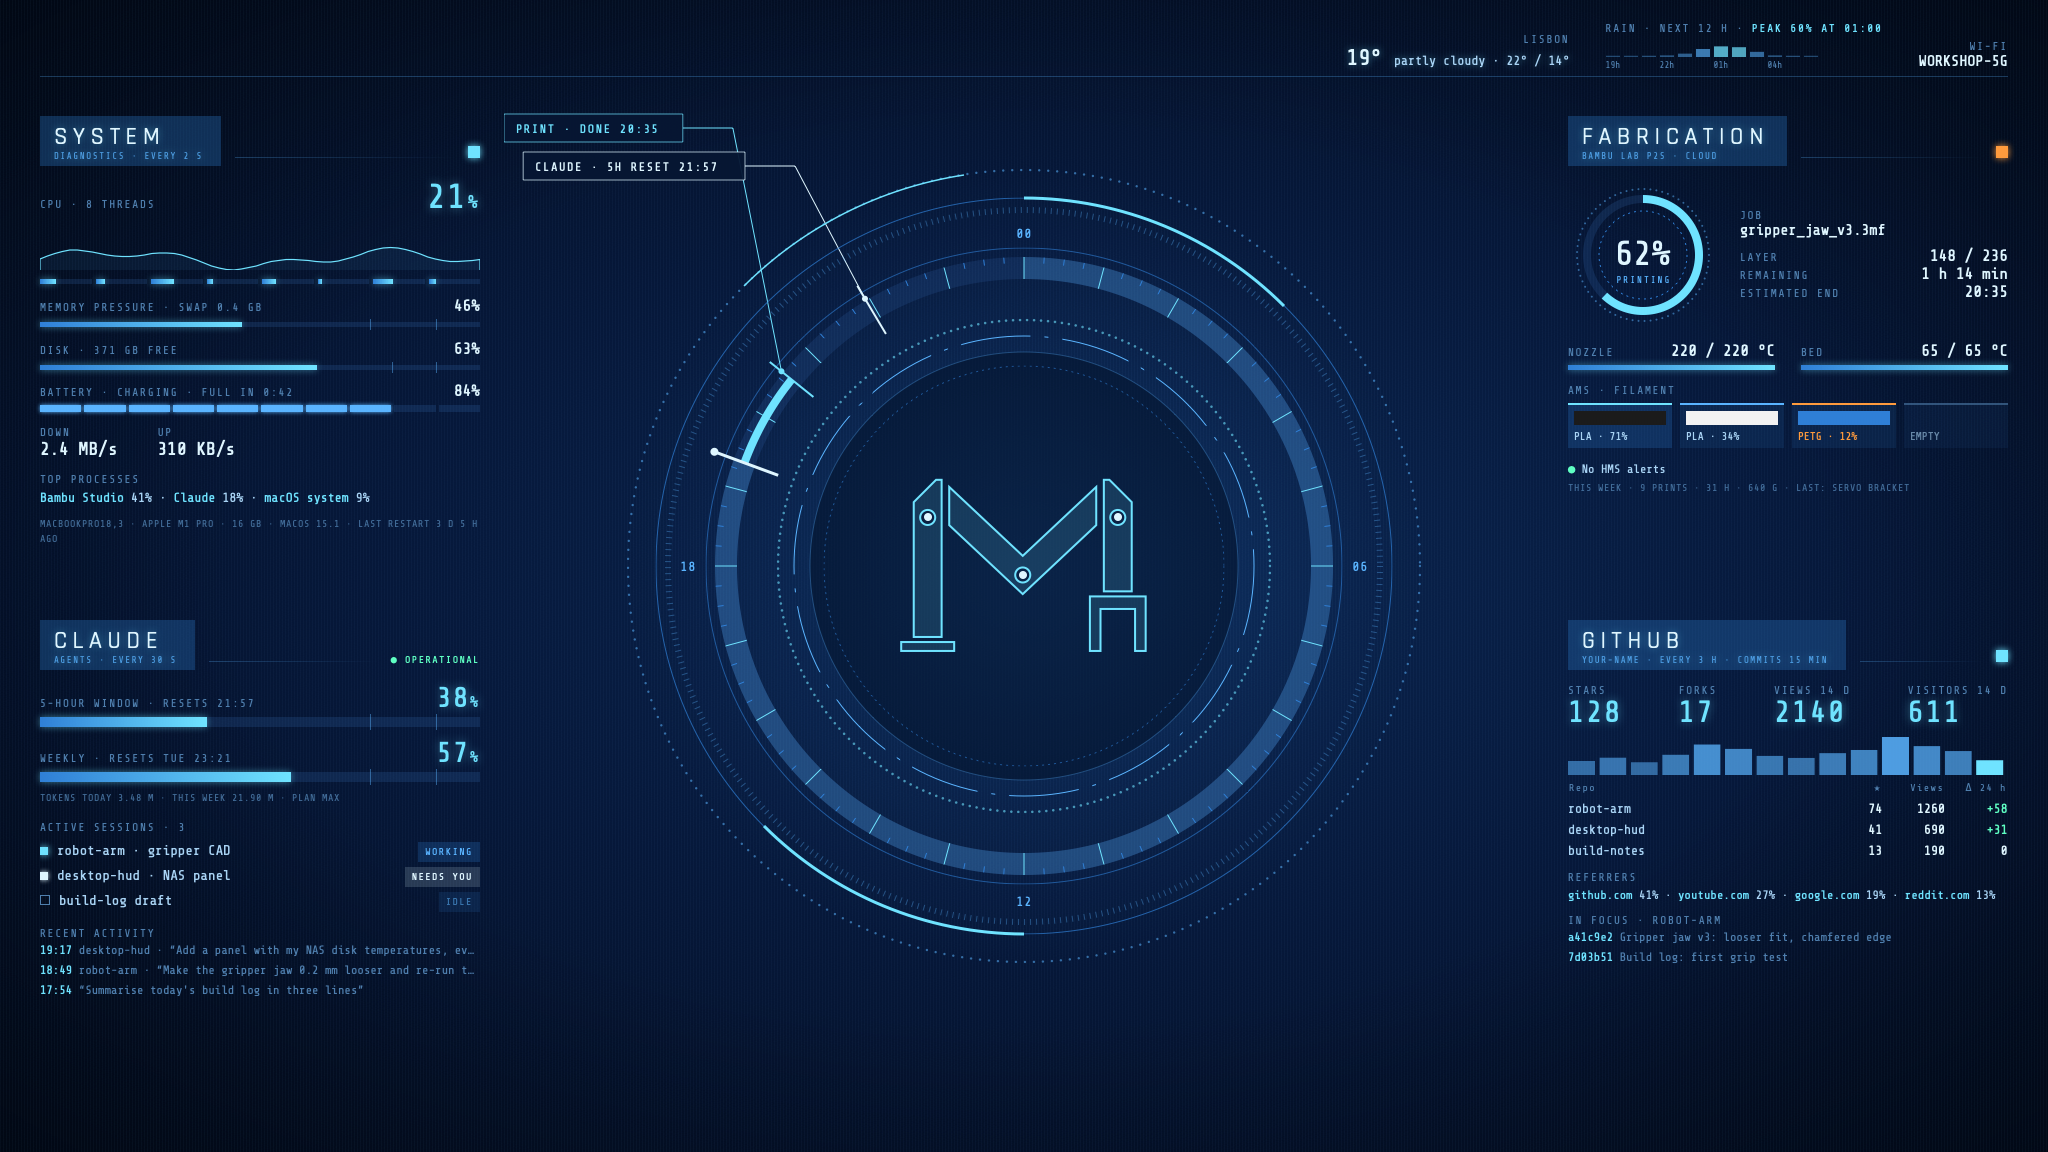
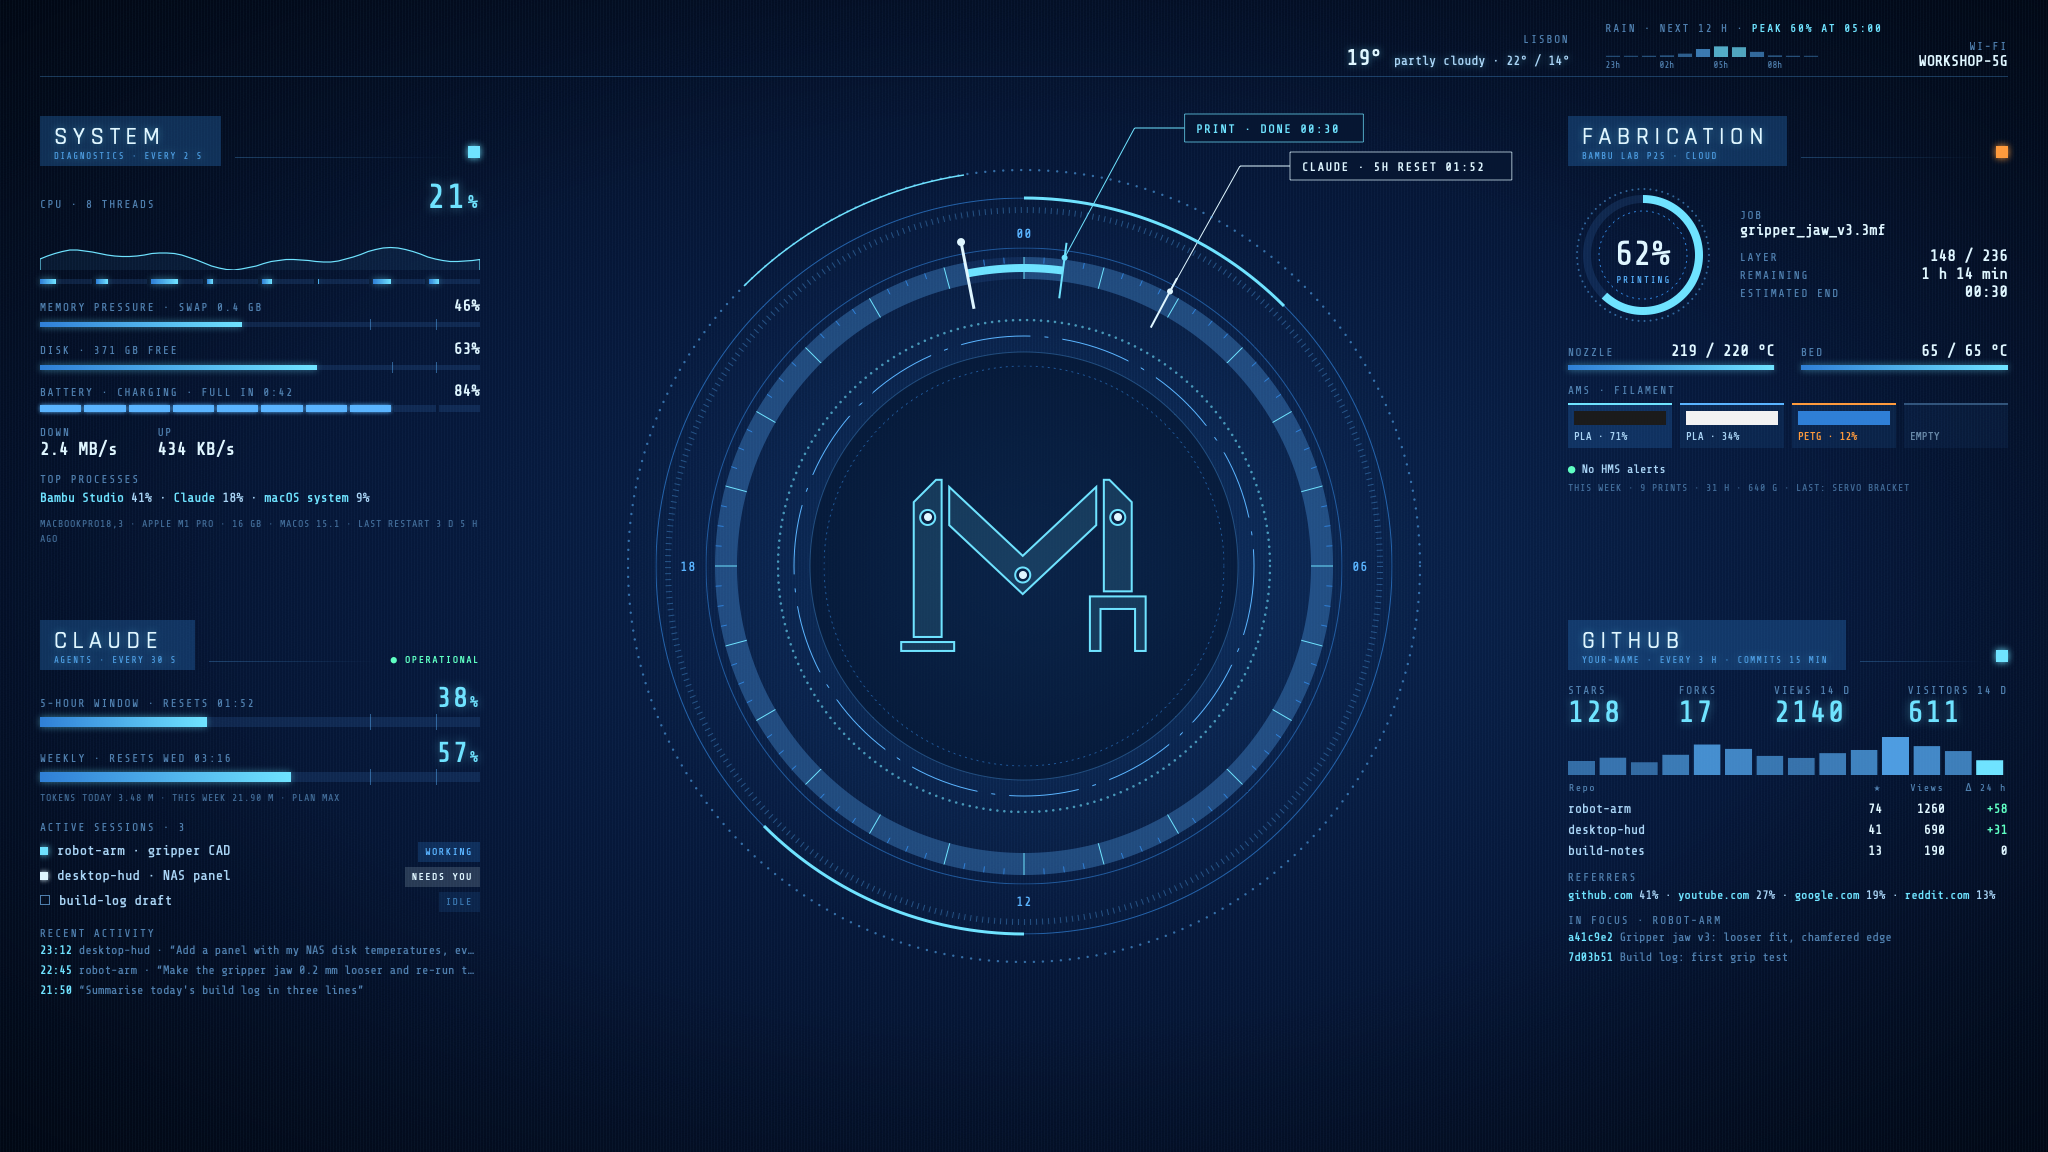
Animated demo, cover image and Mac setup steps
The README opens with a looping GIF of the HUD on made-up data that
changes every refresh. preview/record.py renders the still, the GIF and
the GitHub social preview with WebKit, drawing each frame at an exact
time. The install section now covers login items and location access.

Changed region(s): [[0.3438, 0.2188, 0.5312, 0.4062], [0.25, 0.0938, 0.375, 0.1562], [0.5625, 0.0938, 0.7188, 0.1562]]

diff --git a/preview/social.html b/preview/social.html
@@ -1,0 +1,24 @@
+<!doctype html>
+<!-- GitHub social preview (1280×640). Render: see preview/record.py. Uses docs/hud.png (demo data). -->
+<html><head><meta charset="utf-8"><title>Desktop HUD social preview</title>
+<link rel="stylesheet" href="https://fonts.googleapis.com/css2?family=Rajdhani:wght@300;500&family=Share+Tech+Mono&display=swap">
+<style>
+html,body{margin:0;width:1280px;height:640px;overflow:hidden;background:#030c1d}
+.shot{position:absolute;inset:0;background:url(../docs/hud.png) center 22%/cover}
+.fade{position:absolute;inset:0;background:linear-gradient(180deg,rgba(3,12,29,0) 34%,rgba(3,12,29,.94) 58%,#030c1d 100%)}
+.txt{position:absolute;left:64px;right:64px;bottom:58px;color:#dff6ff}
+.brand{font:16px 'Share Tech Mono',monospace;letter-spacing:.42em;color:#5ab4ff}
+h1{margin:6px 0 10px;font:500 84px/1 Rajdhani,sans-serif;letter-spacing:.2em;text-shadow:0 0 18px rgba(111,227,255,.55)}
+.sub{font:300 27px Rajdhani,sans-serif;letter-spacing:.06em;color:#a9d4f5}
+.sub b{font-weight:500;color:#6fe3ff}
+.rule{width:120px;height:2px;margin-bottom:18px;background:#6fe3ff;box-shadow:0 0 10px #6fe3ff}
+</style></head><body>
+<div class="shot"></div><div class="fade"></div>
+<div class="txt">
+  <div class="rule"></div>
+  <div class="brand">MORANTE ROBOTICS</div>
+  <h1>DESKTOP HUD</h1>
+  <div class="sub">Your macOS wallpaper as a sci-fi HUD · <b>Übersicht</b> · new panels with <b>AI</b></div>
+</div>
+<script>document.fonts.ready.then(() => { window.hudReady = true; });</script>
+</body></html>

diff --git a/preview/record.py b/preview/record.py
@@ -1,0 +1,93 @@
+#!/usr/bin/env python3
+"""Renders a preview page with WebKit (the engine Übersicht uses) to a PNG or a looping GIF.
+
+  python3 preview/build.py --demo         # first: the HUD with made-up data
+  uv run --with pyobjc-framework-WebKit preview/record.py png docs/hud.png
+  uv run --with pyobjc-framework-WebKit preview/record.py gif docs/hud.gif
+  uv run --with pyobjc-framework-WebKit preview/record.py png docs/social-preview.png --page preview/social.html --size 1280x640
+
+GIF options: --seconds 12 (loop length, a multiple of the 2 s refresh), --fps 10, --width 1024.
+The GIF needs ffmpeg. Each frame is drawn at an exact time (see window.hudFrame in build.py),
+so the result doesn't depend on how fast the machine is.
+"""
+import argparse, os, shutil, subprocess, sys, tempfile
+from AppKit import NSApplication, NSBitmapImageRep, NSPNGFileType, NSWindow, NSBackingStoreBuffered
+from Foundation import NSURL, NSMakeRect, NSTimer
+from WebKit import WKWebView, WKWebViewConfiguration, WKSnapshotConfiguration
+
+ROOT = os.path.dirname(os.path.dirname(os.path.abspath(__file__)))
+ap = argparse.ArgumentParser()
+ap.add_argument("mode", choices=["png", "gif"])
+ap.add_argument("out")
+ap.add_argument("--page", default=os.path.join(ROOT, "preview", "index.html"))
+ap.add_argument("--size", default="2048x1152", help="page size in CSS pixels")
+ap.add_argument("--width", type=int, help="output width (default: page width for PNG, 1024 for GIF)")
+ap.add_argument("--seconds", type=float, default=12)
+ap.add_argument("--fps", type=float, default=10)
+a = ap.parse_args()
+W, H = (int(x) for x in a.size.split("x"))
+width = a.width or (W if a.mode == "png" else 1024)
+out = os.path.abspath(a.out)
+frames = [i / a.fps for i in range(round(a.seconds * a.fps))] if a.mode == "gif" else [None]
+tmp = tempfile.mkdtemp(prefix="hud-frames-")
+
+app = NSApplication.sharedApplication()
+win = NSWindow.alloc().initWithContentRect_styleMask_backing_defer_(NSMakeRect(-6000, 0, W, H), 0, NSBackingStoreBuffered, False)
+view = WKWebView.alloc().initWithFrame_configuration_(NSMakeRect(0, 0, W, H), WKWebViewConfiguration.alloc().init())
+win.setContentView_(view)
+win.orderBack_(None)
+view.loadFileURL_allowingReadAccessToURL_(NSURL.fileURLWithPath_(os.path.abspath(a.page)), NSURL.fileURLWithPath_(ROOT))
+
+
+def later(sec, fn):
+    NSTimer.scheduledTimerWithTimeInterval_repeats_block_(sec, False, lambda _t: fn())
+
+
+def fail(msg):
+    print(msg, file=sys.stderr, flush=True)
+    app.terminate_(None)
+
+
+def save(image, path):
+    rep = NSBitmapImageRep.imageRepWithData_(image.TIFFRepresentation())
+    rep.representationUsingType_properties_(NSPNGFileType, {}).writeToFile_atomically_(path, True)
+
+
+def shoot(i):
+    if i == len(frames):
+        return finish()
+    def snap():
+        conf = WKSnapshotConfiguration.alloc().init()
+        conf.setSnapshotWidth_(width)
+        def done(image, err):
+            if err:
+                return fail(f"snapshot failed: {err}")
+            save(image, out if a.mode == "png" else os.path.join(tmp, f"{i:04d}.png"))
+            shoot(i + 1)
+        view.takeSnapshotWithConfiguration_completionHandler_(conf, done)
+    if frames[i] is None:
+        return snap()
+    view.evaluateJavaScript_completionHandler_(f"hudFrame({frames[i]}, {a.seconds})", lambda _r, err: fail(f"hudFrame: {err}") if err else later(0.1, snap))
+
+
+def finish():
+    if a.mode == "gif":
+        vf = ("split[a][b];[a]palettegen=max_colors=128:stats_mode=diff[p];"
+              "[b][p]paletteuse=dither=bayer:bayer_scale=4:diff_mode=rectangle")
+        subprocess.run(["ffmpeg", "-loglevel", "error", "-y", "-framerate", str(a.fps), "-i", os.path.join(tmp, "%04d.png"),
+                        "-vf", vf, "-loop", "0", out], check=True)
+    shutil.rmtree(tmp, ignore_errors=True)
+    print(f"saved {out} ({os.path.getsize(out) / 1e6:.1f} MB)", flush=True)
+    app.terminate_(None)
+
+
+def wait_ready(tries=[0]):
+    tries[0] += 1
+    if tries[0] > 100:
+        return fail("page never became ready (offline? the preview loads React and fonts from CDNs)")
+    js = "window.hudReady === true && document.fonts.status === 'loaded' && [...document.images].every(i => i.complete)"
+    view.evaluateJavaScript_completionHandler_(js, lambda ok, _e: later(1.5, lambda: shoot(0)) if ok else later(0.3, wait_ready))
+
+
+later(0.5, wait_ready)
+app.run()

diff --git a/preview/demo_state.py b/preview/demo_state.py
@@ -1,19 +1,21 @@
 """Made-up state.json for screenshots and for trying the widget without the daemon.
 Times are relative to now, so the HUD never shows it as frozen or expired.
+`step` advances the live values by one 2-second refresh (for the animated preview).
 Nothing here comes from a real machine or account."""
 import math, time
 from datetime import datetime, timedelta, timezone
 
 
-def make():
+def make(step=0):
+    k = step
     now = time.time()
     iso = lambda h: (datetime.now(timezone.utc) + timedelta(hours=h)).isoformat()
-    hist = [round(22 + 14 * math.sin(i / 6) + 9 * math.sin(i / 2.3)) for i in range(60)]
+    hist = [round(22 + 14 * math.sin(i / 6) + 9 * math.sin(i / 2.3)) for i in range(k, k + 60)]
     return {
         "t": now,
         "sys": {
-            "cpu": hist[-1], "cores": [31, 18, 44, 12, 27, 9, 38, 15], "cpuHist": hist,
-            "memPressure": 46, "swapGB": 0.4, "down": 2.4e6, "up": 3.1e5,
+            "cpu": hist[-1], "cores": [int(max(2, c + 9 * math.sin(k + j))) for j, c in enumerate([31, 18, 44, 12, 27, 9, 38, 15])], "cpuHist": hist,
+            "memPressure": 46, "swapGB": 0.4, "down": 2.4e6 * (1 + 0.5 * math.sin(k * 1.3)), "up": 3.1e5 * (1 + 0.4 * math.cos(k)),
             "top": [["Bambu Studio", 41], ["Claude", 18], ["macOS system", 9]],
             "battery": {"pct": 84, "state": "charging", "ac": True, "remaining": "0:42"},
             "diskUsedPct": 63, "diskFreeGB": 371, "uptime": 3 * 86400 + 5 * 3600,
@@ -24,7 +26,7 @@ def make():
             "fiveHour": {"pct": 38, "resetsAt": iso(2.6)}, "week": {"pct": 57, "resetsAt": iso(52)},
             "plan": "max", "limitsAt": now - 60, "limitsStale": False,
             "service": {"indicator": "none", "incident": None},
-            "tokensToday": 3_480_000, "tokensWeek": 21_900_000,
+            "tokensToday": 3_480_000 + 14_000 * k, "tokensWeek": 21_900_000,
             "sessions": [
                 {"name": "robot-arm · gripper CAD", "status": "busy", "since": (now - 300) * 1000},
                 {"name": "desktop-hud · NAS panel", "status": "waiting", "since": (now - 900) * 1000},
@@ -39,8 +41,8 @@ def make():
         },
         "printer": {
             "name": "Workshop printer", "model": "Bambu Lab P2S", "online": True, "updated": now - 3,
-            "state": "RUNNING", "pct": 62, "remainingMin": 74, "layer": 148, "layers": 236,
-            "job": "gripper_jaw_v3.3mf", "nozzle": 220, "nozzleTarget": 220, "bed": 65, "bedTarget": 65,
+            "state": "RUNNING", "pct": 62 + k // 3, "remainingMin": 74 - k // 2, "layer": 148 + k, "layers": 236,
+            "job": "gripper_jaw_v3.3mf", "nozzle": 220 + (-1, 0, 1, 0)[k % 4], "nozzleTarget": 220, "bed": 65, "bedTarget": 65,
             "ams": [{"type": "PLA", "color": "#1b1b1b", "remain": 71, "active": True},
                     {"type": "PLA", "color": "#f2f2f2", "remain": 34, "active": False},
                     {"type": "PETG", "color": "#2f7fd6", "remain": 12, "active": False},

diff --git a/preview/build.py b/preview/build.py
@@ -12,11 +12,11 @@ import json, os, re, sys
 ROOT = os.path.dirname(os.path.dirname(os.path.abspath(__file__)))
 sys.path.insert(0, os.path.join(ROOT, "preview"))
 src = open(os.path.join(ROOT, "widget/hud.jsx")).read()
-if "--demo" in sys.argv:
+if "--demo" in sys.argv:  # six refreshes that loop, like the live HUD every 2 s
     import demo_state
-    state = json.dumps(demo_state.make())
+    states = json.dumps([demo_state.make(k) for k in range(6)])
 else:
-    state = open(os.path.expanduser("~/Library/Application Support/DesktopHUD/state.json")).read()
+    states = "[" + open(os.path.expanduser("~/Library/Application Support/DesktopHUD/state.json")).read() + "]"
 
 src = re.sub(r'^import .*?;\n', "", src, flags=re.M)
 src = src.replace("export const ", "const ")
@@ -28,8 +28,30 @@ html = f"""<!doctype html><html><head><meta charset="utf-8"><title>Desktop HUD p
 </head><body><div id="w"></div>
 <script type="text/babel" data-presets="react">
 {src}
-const STATE = {state};
-ReactDOM.createRoot(document.getElementById('w')).render(render({{ s: STATE, err: null }}));
+const STATES = {states};
+const root = ReactDOM.createRoot(document.getElementById('w'));
+const DEMO = {json.dumps("--demo" in sys.argv)};  // demo data is always "just written"
+const show = (i) => {{
+  const s = STATES[i % STATES.length];
+  ReactDOM.flushSync(() => root.render(render({{ s: DEMO ? {{ ...s, t: Date.now() / 1000 }} : s, err: null }})));
+}};
+let frame = 0;
+show(0);
+const timer = setInterval(() => show(++frame), refreshFrequency);
+// Used by preview/record.py: stop the clock and draw the HUD as it is t seconds into a loop
+// of `loop` seconds, so every frame is exact however long a snapshot takes.
+window.hudFrame = (t, loop) => {{
+  clearInterval(timer);
+  show(Math.floor(t * 1000 / refreshFrequency));
+  for (const a of document.getAnimations()) {{
+    const d = a.effect.getTiming().duration;
+    // whole turns per loop so the GIF loops seamlessly; slow rings turn faster than in real life
+    const turns = d > loop * 1000 ? ({{60000: 2}}[d] || 1) : Math.max(1, Math.round(loop * 1000 / d));
+    a.pause();
+    a.currentTime = ((t / loop) * turns * d) % d;
+  }}
+}};
+window.hudReady = true;
 </script></body></html>"""
 open(os.path.join(ROOT, "preview/index.html"), "w").write(html)
 print("preview/index.html written" + (" (demo data)" if "--demo" in sys.argv else " (LIVE data: do not share)"))

diff --git a/README.md b/README.md
@@ -4,9 +4,10 @@ A sci-fi heads-up display as your macOS wallpaper: system load, Claude Code usag
 traffic and the weather, live on the desktop behind your windows. It's part of setting up the workbench for my
 [robotics capstones](https://github.com/Morante-robotics/robotics-capstones), and I built it with Claude Code.
 
-![The HUD with demo data](docs/hud.png)
+![The HUD running with demo data](docs/hud.gif)
 
-*Screenshot made from [made-up data](preview/demo_state.py), not from a real machine.*
+*Recorded from [made-up data](preview/demo_state.py), not from a real machine. The rings turn faster than on the
+real desktop so the loop stays short. [Full-resolution still](docs/hud.png).*
 
 The point of this repository isn't to give you my panels. It's to show the pattern, which is small enough that an AI
 assistant can add whatever you want to monitor in one conversation.
@@ -69,7 +70,11 @@ starts at login, restarts if it crashes and runs at low priority). It also copie
 turns on two Übersicht settings the HUD needs: "draw in background" for the HUD and the interaction layer for the
 buttons. Re-run it after any change; `./install.sh --uninstall` removes everything except your data folder.
 
-Optional printer link: `python3 daemon/bambu_login.py`.
+Then:
+
+- Make Übersicht start at login: System Settings → General → Login Items → add Übersicht.
+- Allow location access when macOS asks (for the weather city), or the HUD uses an approximate city from your IP.
+- Optional printer link: `python3 daemon/bambu_login.py`.
 
 ## Configure
 
@@ -148,9 +153,9 @@ To make it yours, swap the logo in the centre: it's the `LOGO` SVG path in `widg
 | `locate/` | CoreLocation helper for the weather city |
 | `install.sh` | Installs, updates, uninstalls |
 | `measure.sh` | Measures the real CPU cost |
-| `preview/` | Browser preview, demo data and screenshot script |
+| `preview/` | Browser preview, demo data, and the script that records the screenshot, the GIF and the social preview |
 
 ## License
 
-Code under the [MIT License](LICENSE); the screenshot under
+Code under the [MIT License](LICENSE); the images in `docs/` under
 [CC BY-SA 4.0](https://creativecommons.org/licenses/by-sa/4.0/).
